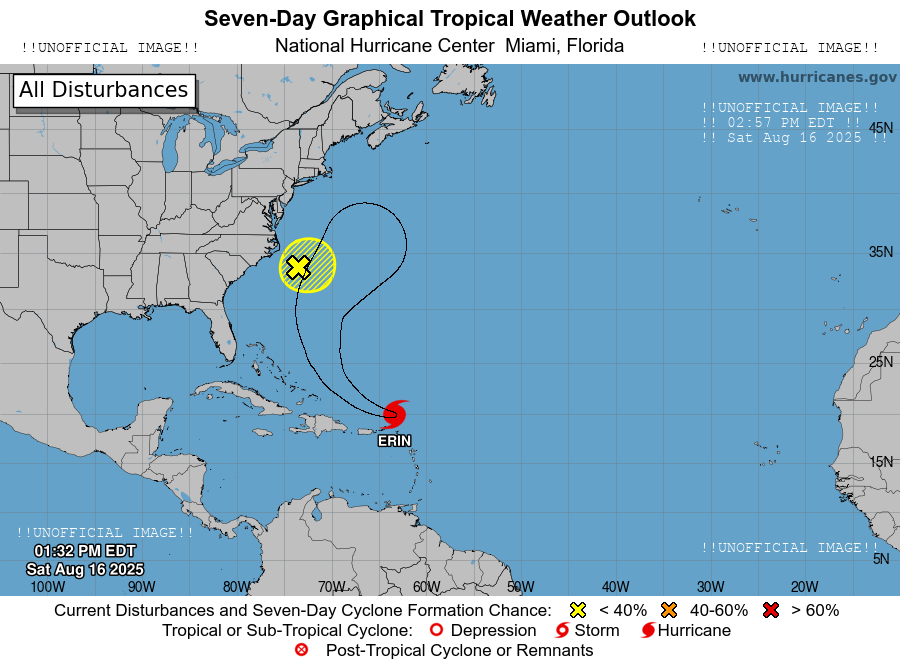
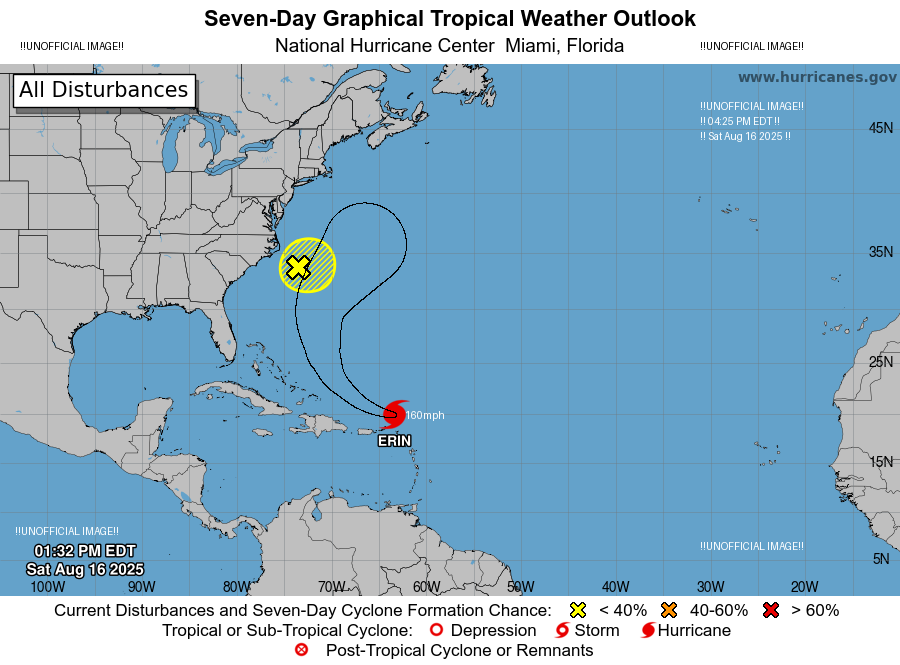
Experimenting with adding the maximum sustained wind speeds on the images

diff --git a/main.py b/main.py
@@ -48,13 +48,13 @@ def get_namespace(element):
 
 
 def extract_coords_from_kml(file):
-    print("Reading file: ", file)
+    print(f"extract_coords_from_kml: Reading file: {file}")
     tree = ET.parse(file)
     root = tree.getroot()
     namespace = get_namespace(root)
-    # print("namespace is: ", namespace)
+    # print(f"namespace is: {namespace}")
     coords = []
-    for node in root.findall(".//{0}LinearRing/{0}coordinates".format(namespace)):
+    for node in root.findall(f".//{namespace}LinearRing/{namespace}coordinates"):
         coord_text_split = node.text.strip().split()
         for coord_text in coord_text_split:
             coords.append(coord_text)
@@ -65,9 +65,68 @@ def extract_coords_from_kml(file):
     #         coords.append(coord_text)
     if not coords:
         # Fall back to brute-force
-        print("WARNING: Failed to get coords from ", file)
+        print(f"WARNING: Failed to get coords from {file}")
         coords = root[0][3][1][0][0][0].text.strip().split()
     return coords
+
+def extract_speed_from_kml(file):
+    print(f"extract_speed_from_kml: Reading file: {file}")
+    tree = ET.parse(file)
+    root = tree.getroot()
+    namespace = get_namespace(root)
+    # print(f"namespace is: {namespace}")
+    got_coords = False
+    got_speed = False
+    lat_val = 0
+    lon_val = 0
+    max_wind = 0
+    for node in root.findall(f".//{namespace}ExtendedData/{namespace}Data"):
+
+        if node.get("name") == "TCInitLocation":
+            value = node.find(f"./{namespace}value")
+            if value is not None:
+
+                coord_text_split = value.text.strip().replace(",", "").split()
+                if len(coord_text_split) == 2:
+                    lat_val, lon_val = coord_text_split
+                    try:
+                        # First try to convert the value directly to a float
+                        lat_val = float(lat_val)
+                    except:
+                        # If an exception, then it's a string representation
+                        if lat_val.endswith("S"):
+                            lat_val = f"-{lat_val}"
+                        # Remove the last character (it's a N or S)
+                        lat_val = lat_val[:-1]
+                    try:
+                        # First try to convert the value directly to a float
+                        lon_val = float(lon_val)
+                    except:
+                        # If an exception, then it's a string representation
+                        if lon_val.endswith("W"):
+                            lon_val = f"-{lon_val}"
+                        # Remove the last character (it's a W or E)
+                        lon_val = lon_val[:-1]
+                    got_coords = True
+                    if got_speed:
+                        break
+            else:
+                print("No TCInitLocation value")
+                break
+        if node.get("name") == "maxWindMPH":
+            value = node.find(f"./{namespace}value")
+            if value is not None:
+                max_wind = value.text.strip()
+                got_speed = True
+                if got_coords:
+                    break
+            else:
+                print("No maxWindMPH value")
+                break
+    if not got_coords and not got_speed:
+        print("WARNING: Failed to get coords from ", file)
+        return None, None, None
+    return lat_val, lon_val, max_wind
 
 
 # Atlantic which_td = 2
@@ -82,6 +141,8 @@ def scrape_page(which_td, convert_kmz_to_kml=True):
     links = tree.xpath("/html/body/div[5]/div/table[1]/tr[3]/td[{}]/a".format(which_td))
     for link in links:
         if re.match(r'.*/\w+_CONE_latest.kmz', link.attrib['href']):
+            kmz_files.append(link.attrib['href'])
+        elif re.match(r'.*/\w+_TRACK_latest.kmz', link.attrib['href']):
             kmz_files.append(link.attrib['href'])
     for file_match in kmz_files:
         full_url = "{}{}".format(NHC_BASE_URL, file_match.strip())
@@ -196,7 +257,7 @@ def remove_logos_and_add_unofficial_text(image_draw, text_position_data):
 
 def modify_image(image, lat_func, long_func):
     skip_count = 0
-    for file in glob.glob("*.kml"):
+    for file in glob.glob("*CONE*.kml"):
         coords = extract_coords_from_kml(file)
         for coord in coords:
             split = coord.split(',')
@@ -209,6 +270,24 @@ def modify_image(image, lat_func, long_func):
             image.putpixel((x_coord, y_coord), (0, 0, 0, 255))
         if skip_count > 0:
             print("Skipped ", skip_count, " in ", file)
+
+    # Now try to draw the windspeed on the image
+    image_draw = None
+    for file in glob.glob("*TRACK*.kml"):
+        lat_val, lon_val, max_wind = extract_speed_from_kml(file)
+        if lat_val is not None:
+            if image_draw is None:
+                image_draw = ImageDraw.Draw(image)
+            x_coord = bound_x_to_image(image.size[0], long_func(float(lon_val)))
+
+            y_coord = lat_func(float(lat_val))
+            # print(f"{lon_val}, {lat_val} - {max_wind}")
+            if x_coord is not None and y_coord is not None:
+                # Adjust eastward a tiny bit
+                x_coord += 11
+                # Adjust northward a tiny bit
+                y_coord -= 5
+                image_draw.text((x_coord, y_coord), f"{max_wind}mph", DRAW_WHITE, font=DRAW_FONT)
 
 
 # Maps the X coordinate on the image to an associated longitude
